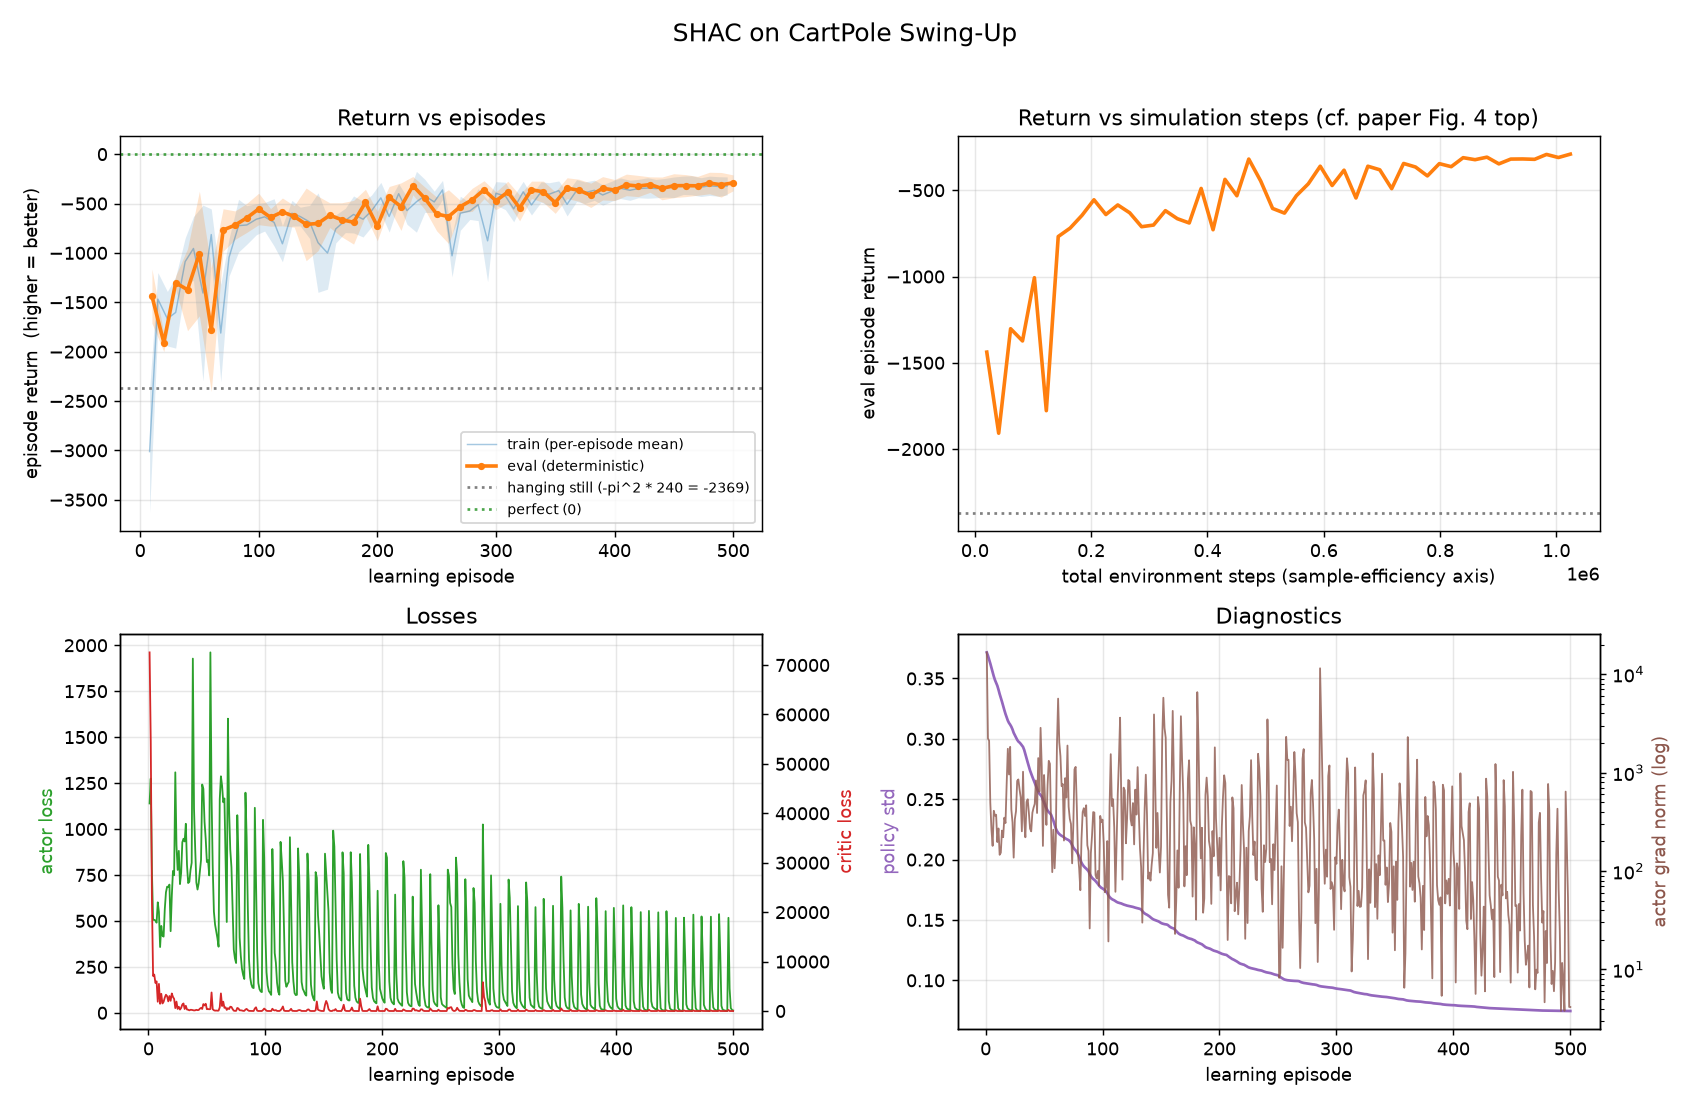
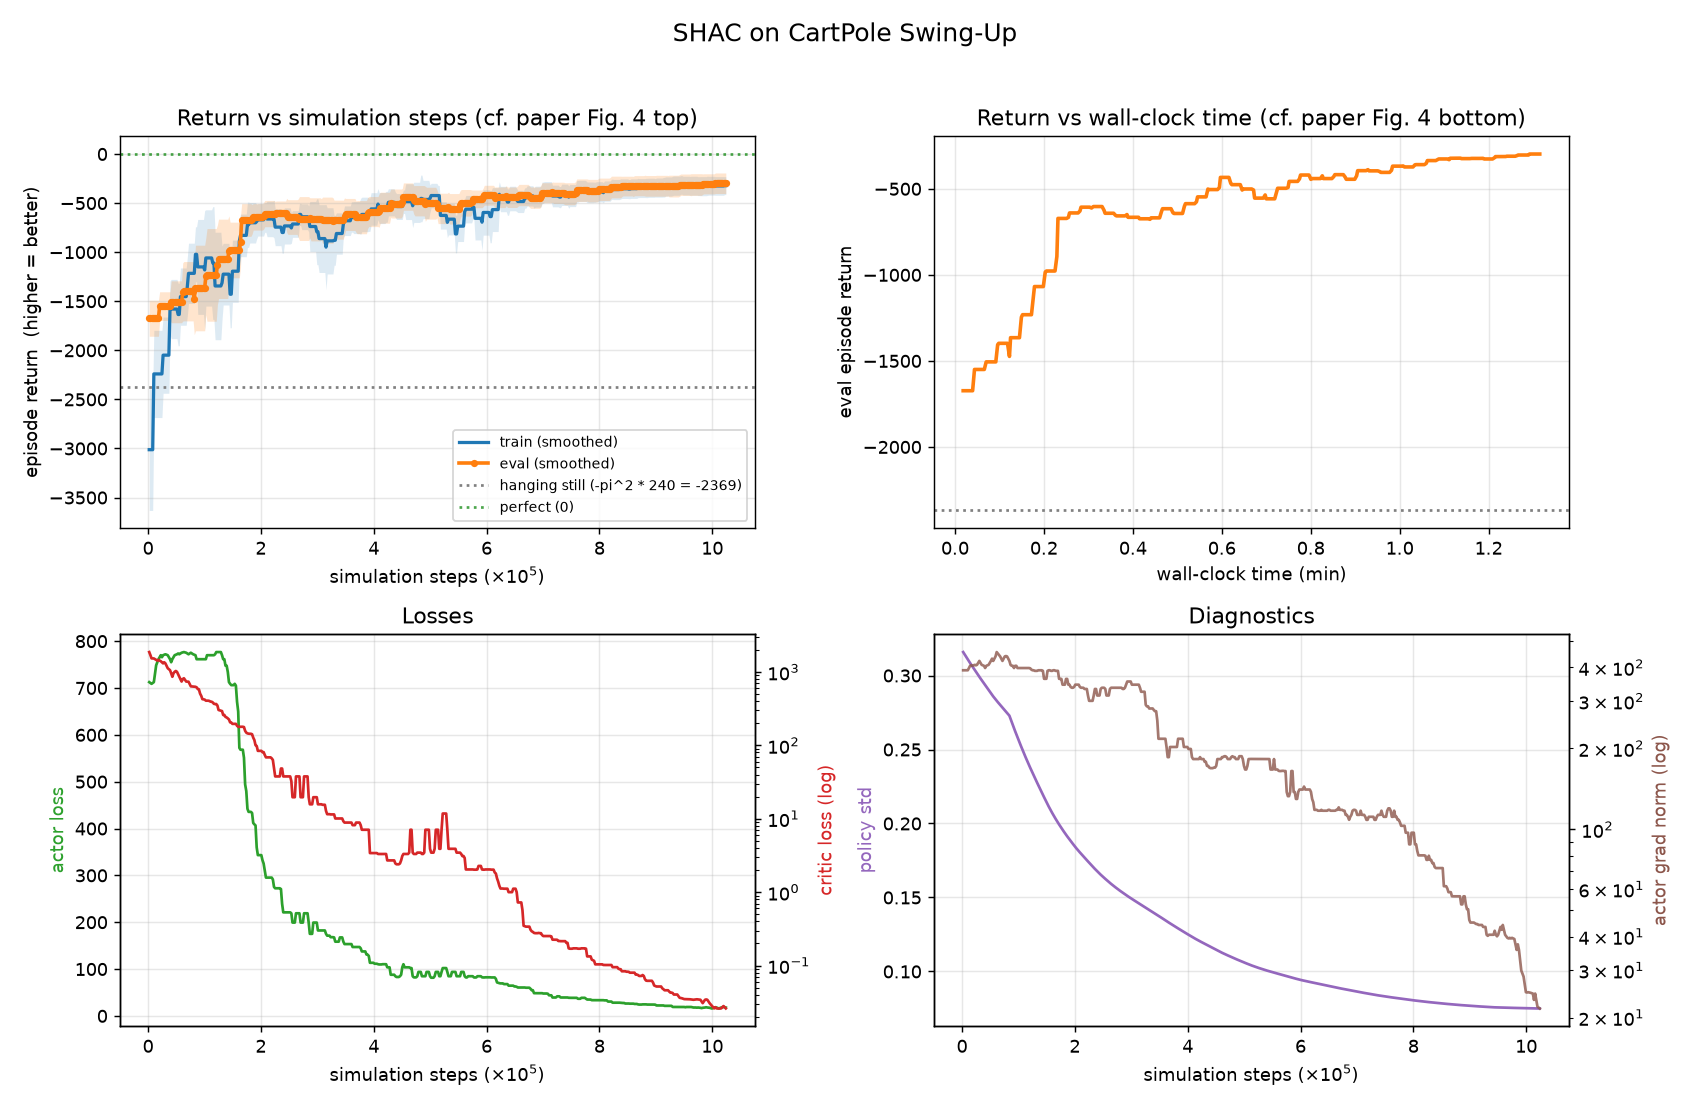
Plot training curves in the paper's Figure 4 style, smoothed
Switch all x-axes to simulation steps (x10^5), matching the paper's
Figure 4 top row, and repurpose the second panel as return vs
wall-clock time (the paper's bottom-row axis).

The paper's curves are smooth because each is a mean over 5 seeds;
our single-seed, one-point-per-episode curves are smoothed instead:
a centered rolling mean for the return curves (~4% of the run, 2x
for the 10x-sparser eval rows) and a rolling median at 4x the base
window for the loss and gradient series. Those are dominated by the
synchronized task resets (all 64 envs reset in lockstep every
240/32 = 7.5 episodes, spiking the losses 10-100x); a mean leaves
residual ripple at any window that preserves the trend, while the
median ignores the spikes entirely. Critic loss moves to a log axis
(it spans 1e-3..1e5). --smooth N rescales the base window;
--smooth 0/1 plots raw per-episode values.

Regenerated the figures for the 500-episode (paper-budget) and
3000-episode runs and updated the README caption. Verified visually
that all four panels are smooth and defect-free in both figures.

diff --git a/scripts/plot_training.py b/scripts/plot_training.py
@@ -4,12 +4,24 @@ Plot the training progression from a run's log.csv.
 Usage:
     uv run python scripts/plot_training.py runs/cartpole_20260103_120000
     uv run python scripts/plot_training.py runs/cartpole_20260103_120000 -o my_plot.png
+    uv run python scripts/plot_training.py runs/cartpole_20260103_120000 --smooth 0   # raw
 
-Produces a 2x2 figure:
-  (1) episode return vs learning episode   (train + eval curves)
-  (2) episode return vs total env steps    (the paper's sample-efficiency axis)
-  (3) actor / critic losses
+Produces a 2x2 figure, with the paper's Figure 4 axes:
+  (1) episode return vs simulation steps (x10^5)  (train + eval curves)
+  (2) episode return vs wall-clock time            (the paper's other axis)
+  (3) actor / critic losses        (also vs simulation steps)
   (4) diagnostics: policy std, gradient norms
+
+ABOUT SMOOTHING: every series is one point per learning episode from a single
+seed, which is much noisier than the paper's Figure 4, where each curve is a
+mean over 5 seeds (which is what makes the paper's curves smooth). All curves
+are therefore drawn with a centered rolling window around a base window of
+~4% of the run (20 episodes for a 500-episode run): eval curves use 2x the
+base window (their rows are 10x sparser), losses and diagnostics use 4x.
+The loss and gradient-norm series are smoothed with a rolling median, which
+ignores the periodic task-reset spikes instead of smearing them into the
+trend. --smooth N rescales the base window; --smooth 0/1 plots raw
+per-episode values.
 
 ABOUT THE RETURN SIGN (important when comparing with the paper):
 The CartPole reward R = -theta^2 - ... is always <= 0, so the episode return
@@ -25,6 +37,7 @@ progresses); both views carry the same information.
 import argparse
 import csv
 import os
+import statistics
 import sys
 
 import matplotlib
@@ -58,71 +71,133 @@ def masked(xs, ys):
             [y for y in ys if y is not None])
 
 
+def smooth(ys, window, stat="mean"):
+    """Centered rolling mean (default) or median over a series with None gaps.
+
+    The paper's Figure 4 smooths by averaging 5 independent seeds. This run
+    is a single seed recorded once per learning episode, so we use a rolling
+    window over the episodes instead -- the standard way to present
+    single-seed learning curves. None entries (e.g. eval columns between
+    evals) are skipped, so an eval series is averaged over its ~window/10
+    neighbours.
+
+    The diagnostic series (actor/critic loss, gradient norm) are spike-
+    dominated: every 240/32 = 7.5 episodes all 64 envs reset in lockstep,
+    and those windows carry losses orders of magnitude above the typical
+    episode. For those we use a rolling *median* (stat="median"): it ignores
+    the reset spikes entirely, whereas a mean leaves residual ripple unless
+    the window spans ~10 reset periods -- by which point real trends are
+    over-smoothed.
+    """
+    n = len(ys)
+    if window is None or window <= 1 or n == 0:
+        return ys
+    half = max(1, int(window) // 2)
+    out = []
+    for i in range(n):
+        lo, hi = max(0, i - half), min(n, i + half + 1)
+        vals = [y for y in ys[lo:hi] if y is not None]
+        if not vals:
+            out.append(None)
+        elif stat == "median":
+            out.append(statistics.median(vals))
+        else:
+            out.append(sum(vals) / len(vals))
+    return out
+
+
 def main():
     p = argparse.ArgumentParser()
     p.add_argument("logdir", help="run directory containing log.csv")
     p.add_argument("-o", "--output", default=None,
                    help="output png (default: <logdir>/training.png)")
+    p.add_argument("--smooth", type=int, default=-1,
+                   help="centered moving-average window in episodes applied "
+                        "to every curve (default: ~4%% of the run; 0 or 1 "
+                        "= raw per-episode values)")
     args = p.parse_args()
 
     rows = load_log(args.logdir)
-    ep = col(rows, "episode")
+    window = args.smooth
+    if window < 0:                          # auto: ~4% of the run
+        window = max(5, len(rows) // 25)
+    # Eval rows are 10x sparser than train rows, so eval curves get a 2x
+    # wider window. The loss / diagnostic series are dominated by the
+    # synchronized task resets (all 64 envs reset in lockstep every
+    # 240/32 = 7.5 episodes), so they get a 4x window combined with a
+    # rolling median that ignores the reset spikes (see smooth()).
+    w_eval = 2 * window
+    w_loss = 4 * window
     steps = col(rows, "env_steps")
     wall = col(rows, "wall_time_s")
+    # The paper's Figure 4 plots learning curves against "simulation steps
+    # (x10^5)" -- total environment steps summed over all parallel envs.
+    # Use the same unit here; panel 2 additionally mirrors the paper's
+    # bottom-row axis (wall-clock time in minutes).
+    steps_1e5 = [s / 1e5 for s in steps]
+    wall_min = [w / 60.0 for w in wall]
 
     fig, axes = plt.subplots(2, 2, figsize=(13, 8.5))
     fig.suptitle("SHAC on CartPole Swing-Up", fontsize=14)
 
-    # ---------------- (1) return vs episode ----------------
+    # ---------------- (1) return vs simulation steps ----------------
     ax = axes[0, 0]
     tr_m, tr_s = col(rows, "train_return_mean"), col(rows, "train_return_std")
     ev_m, ev_s = col(rows, "eval_return_mean"), col(rows, "eval_return_std")
-    ex, em = masked(ep, ev_m)
-    _, es = masked(ep, ev_s)
-    tx, tm = masked(ep, tr_m)
-    _, ts = masked(ep, tr_s)
+    tr_ms, tr_ss = smooth(tr_m, window), smooth(tr_s, window)
+    ev_ms, ev_ss = smooth(ev_m, w_eval), smooth(ev_s, w_eval)
+    ex, em = masked(steps_1e5, ev_ms)
+    _, es = masked(steps_1e5, ev_ss)
+    tx, tm = masked(steps_1e5, tr_ms)
+    _, ts = masked(steps_1e5, tr_ss)
     if tm:
-        ax.plot(tx, tm, alpha=0.4, lw=0.8, color="C0",
-                label="train (per-episode mean)")
+        ax.plot(tx, tm, lw=1.8, color="C0", label="train (smoothed)")
         ax.fill_between(tx, [m - s for m, s in zip(tm, ts)],
                         [m + s for m, s in zip(tm, ts)],
                         alpha=0.15, color="C0", lw=0)
     if em:
         ax.plot(ex, em, color="C1", lw=2, marker="o", ms=3,
-                label="eval (deterministic)")
+                label="eval (smoothed)")
         ax.fill_between(ex, [m - s for m, s in zip(em, es)],
                         [m + s for m, s in zip(em, es)],
                         alpha=0.2, color="C1", lw=0)
     ax.axhline(-2369, color="gray", ls=":",
                label="hanging still (-pi^2 * 240 = -2369)")
     ax.axhline(0.0, color="green", ls=":", alpha=0.7, label="perfect (0)")
-    ax.set_xlabel("learning episode")
+    ax.set_xlabel("simulation steps ($\\times 10^5$)")
     ax.set_ylabel("episode return  (higher = better)")
-    ax.set_title("Return vs episodes")
+    ax.set_title("Return vs simulation steps (cf. paper Fig. 4 top)")
     ax.legend(fontsize=8)
     ax.grid(alpha=0.3)
 
-    # ---------------- (2) return vs env steps ----------------
+    # ---------------- (2) return vs wall-clock time ----------------
+    # The paper's Figure 4 bottom row: the same learning curve against
+    # wall-clock training time instead of samples.
     ax = axes[0, 1]
-    sx, sm = masked(steps, ev_m)
-    if sm:
-        ax.plot(sx, sm, color="C1", lw=2)
+    wx, wm = masked(wall_min, ev_ms)
+    if wm:
+        ax.plot(wx, wm, color="C1", lw=2)
     ax.axhline(-2369, color="gray", ls=":")
-    ax.set_xlabel("total environment steps (sample-efficiency axis)")
+    ax.set_xlabel("wall-clock time (min)")
     ax.set_ylabel("eval episode return")
-    ax.set_title("Return vs simulation steps (cf. paper Fig. 4 top)")
+    ax.set_title("Return vs wall-clock time (cf. paper Fig. 4 bottom)")
     ax.grid(alpha=0.3)
 
     # ---------------- (3) losses ----------------
     ax = axes[1, 0]
     al = col(rows, "actor_loss")
     cl = col(rows, "critic_loss")
-    ax.plot(ep, al, color="C2", lw=1, label="actor loss (Eq. 5)")
-    ax.set_xlabel("learning episode")
+    ax.plot(steps_1e5, smooth(al, w_loss, stat="median"), color="C2", lw=1.5,
+            label="actor loss (Eq. 5, median-smoothed)")
+    ax.set_xlabel("simulation steps ($\\times 10^5$)")
     ax.set_ylabel("actor loss", color="C2")
     ax2 = ax.twinx()
-    ax2.plot(ep, cl, color="C3", lw=1, label="critic MSE loss (Eq. 6)")
-    ax2.set_ylabel("critic loss", color="C3")
+    ax2.plot(steps_1e5, smooth(cl, w_loss, stat="median"), color="C3", lw=1.5,
+             label="critic MSE loss (Eq. 6, median-smoothed)")
+    # critic loss spans ~1e-3 (converged) to ~1e5 (first episodes' fitting
+    # spike); log scale keeps both regimes visible.
+    ax2.set_yscale("log")
+    ax2.set_ylabel("critic loss (log)", color="C3")
     ax.set_title("Losses")
     ax.grid(alpha=0.3)
 
@@ -130,11 +205,13 @@ def main():
     ax = axes[1, 1]
     sd = col(rows, "policy_std")
     gn = col(rows, "actor_grad_norm")
-    ax.plot(ep, sd, color="C4", lw=1.5, label="policy std")
-    ax.set_xlabel("learning episode")
+    ax.plot(steps_1e5, smooth(sd, w_loss), color="C4", lw=1.5,
+            label="policy std")
+    ax.set_xlabel("simulation steps ($\\times 10^5$)")
     ax.set_ylabel("policy std", color="C4")
     ax2 = ax.twinx()
-    ax2.plot(ep, gn, color="C5", lw=1, alpha=0.8, label="actor grad norm")
+    ax2.plot(steps_1e5, smooth(gn, w_loss, stat="median"), color="C5", lw=1.5,
+             alpha=0.8, label="actor grad norm")
     ax2.set_yscale("log")
     ax2.set_ylabel("actor grad norm (log)", color="C5")
     ax.set_title("Diagnostics")
@@ -143,7 +220,11 @@ def main():
     fig.tight_layout(rect=[0, 0, 1, 0.96])
     out = args.output or os.path.join(args.logdir, "training.png")
     fig.savefig(out, dpi=130)
-    print(f"saved: {out}")
+    if window > 1:
+        print(f"saved: {out}  (smoothing windows: train {window} eps, "
+              f"eval {w_eval} eps, losses/diagnostics {w_loss} eps)")
+    else:
+        print(f"saved: {out}  (raw per-episode values, no smoothing)")
 
 
 if __name__ == "__main__":

diff --git a/README.md b/README.md
@@ -97,8 +97,12 @@ a TITAN X — 0.15 s forward + 0.23 s backward + 0.34 s critic training —
 so 500 episodes ≈ 6 minutes, exactly the extent of Figure 4's CartPole
 wall-clock axis.)
 
-**Training progression** (return vs episode / vs env steps, losses,
-diagnostics — from `scripts/plot_training.py`):
+**Training progression** (return vs simulation steps (×10⁵) and vs
+wall-clock time — the two axes of the paper's Figure 4 — plus losses and
+diagnostics, from `scripts/plot_training.py`; curves are smoothed — a
+rolling mean for the returns, a rolling median for the spike-dominated
+loss/gradient series — the single-seed counterpart of the paper's 5-seed
+averaging; `--smooth 0` shows the raw per-episode values):
 
 ![SHAC CartPole training curves](figures/cartpole_500ep_training.png)
 
